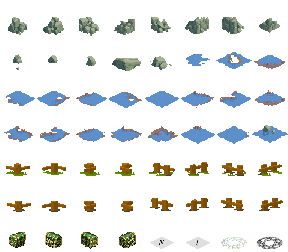
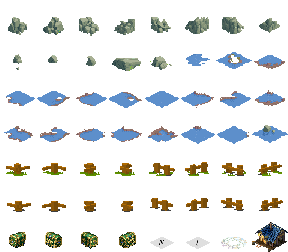
맵툴 하우스 추가
맵툴 하우스 추가

Changed region(s): [[0.875, 0.8889, 1.0, 1.0]]

diff --git a/20170720_1D/mapToolScene.cpp b/20170720_1D/mapToolScene.cpp
@@ -29,14 +29,6 @@ HRESULT mapToolScene::init()
 	_phaseSample.isMove = false;
 	_curTile.x = _curTile.y = 0;
 	
-	for (int i = 0; i < SAMY; i++) for (int j = 0; j < SAMX; j++)
-	{
-		_tileSample[i * SAMX + j].frame.x = j;
-		_tileSample[i * SAMX + j].frame.y = i;
-		SetRect(&_tileSample[i * SAMX + j].rc, _phaseSample.rc.left + j * SAMSIZEX,
-			_phaseSample.rc.top + i * SAMSIZEY, _phaseSample.rc.left + j * SAMSIZEX + SAMSIZEX, _phaseSample.rc.top + i * SAMSIZEY + SAMSIZEY);
-	}
-
 	_sampleTile.frame.x = 0;
 	_sampleTile.frame.y = 0;
 	_sampleTile.rc = RectMakeCenter(_phaseSample.x, _phaseSample.y, 192, 192);
@@ -430,14 +422,47 @@ void mapToolScene::setTile()
 					}
 					break;
 				case SAM_OBJECT:
-					_tile[i].objFrame.x = _curTile.x;
-					_tile[i].objFrame.y = _curTile.y;
-					_tile[i].obj = this->objCreater({ _curTile.x, _curTile.y });
+					if (this->objCreater({ _curTile.x, _curTile.y }) == OBJ_HOUSE)
+					{
+						if (!houseSetCheck(i)) continue;
+						for (int t = 0; t < 4; t++)
+						{
+							for (int k = i; k < i + 4; k++)
+							{
+								if (k + t * TILEX == i + (TILEX + 1) * 3) _tile[k + t * TILEX].obj = OBJ_HOUSERENDER;
+								else _tile[k + t * TILEX].obj = this->objCreater({ _curTile.x, _curTile.y });
+							}
+						}
+					}
+					else
+					{
+						if (_tile[i].obj == OBJ_ERASE)
+						{
+							_tile[i].objFrame.x = _curTile.x;
+							_tile[i].objFrame.y = _curTile.y;
+							_tile[i].obj = this->objCreater({ _curTile.x, _curTile.y });
+						}
+					}
 					break;
 				case SAM_OBJ_ERASER:
-					_tile[i].objFrame.x = _curTile.x;
-					_tile[i].objFrame.y = _curTile.y;
-					_tile[i].obj = OBJ_ERASE;
+					if (_tile[i].obj == OBJ_HOUSERENDER)
+					{
+						for (int t = 0; t < 4; t++)
+						{
+							for (int k = (i - 3) - TILEX * 3; k < (i - 3) - TILEX * 3 + 4; k++)
+							{
+								_tile[k + t * TILEX].objFrame.x = _curTile.x;
+								_tile[k + t * TILEX].objFrame.y = _curTile.y;
+								_tile[k + t * TILEX].obj = OBJ_ERASE;
+							}
+						}
+					}
+					else
+					{
+						_tile[i].objFrame.x = _curTile.x;
+						_tile[i].objFrame.y = _curTile.y;
+						_tile[i].obj = OBJ_ERASE;
+					}
 					break;
 				}
 			}		
@@ -456,6 +481,30 @@ void mapToolScene::setTile()
 		}
 	}
 }
+
+bool mapToolScene::houseSetCheck(int num)
+{
+	for (int i = 0; i < 4; i++)
+	{
+		for (int j = num; j < num + 4; j++)
+		{
+			if (_tile[j + i * TILEX].obj != OBJ_ERASE) return false;
+			if (_tile[j + i * TILEX].ter == TER_VOID) return false;
+			if (num >= TILEX * (TILEY - 1) + 1 && num < TILEX * TILEY) return false;
+			if (num % (TILEX - 1) == 0 && num != 0) return false;
+			if (i < num + 3)
+			{
+				if (_tile[j + i * TILEX].z != _tile[j + i * TILEX].z) return false;
+			}
+			else
+			{
+				if (_tile[j + i * TILEX].z != _tile[num + (i + 1) * TILEX].z && j < num + 3) return false;
+			}
+		}
+	}
+	return true;
+}
+
 void mapToolScene::drawTile()
 {
 	IMAGEMANAGER->findImage(L"IsoBackground")->render(0, 0, false, 1);
@@ -511,13 +560,32 @@ void mapToolScene::drawTile()
 				DIRECT2D->drawLine(DIRECT2D->_defaultBrush, _tile[i].line[1].x, _tile[i].line[1].y, _tile[i].line[2].x, _tile[i].line[2].y, true, 1);
 				DIRECT2D->drawLine(DIRECT2D->_defaultBrush, _tile[i].line[2].x, _tile[i].line[2].y, _tile[i].line[3].x, _tile[i].line[3].y, true, 1);
 				DIRECT2D->drawLine(DIRECT2D->_defaultBrush, _tile[i].line[3].x, _tile[i].line[3].y, _tile[i].line[0].x, _tile[i].line[0].y, true, 1);
+
+				/*int tileObj = 0;
+				if (_tile[i].obj != OBJ_ERASE) tileObj = 1;
+				WCHAR str[128];
+				wsprintf(str, L"%d", tileObj);
+				DIRECT2D->drawTextD2D(DIRECT2D->_defaultBrush, str,
+					_tile[i].line[1].x - CAMERAMANAGER->getX(), 
+					_tile[i].line[1].y - CAMERAMANAGER->getY(),
+					_tile[i].line[2].x - CAMERAMANAGER->getX(),
+					_tile[i].line[2].y - CAMERAMANAGER->getY());*/
 			}
 
 			if (_tile[i].obj != OBJ_ERASE)
 			{
-				IMAGEMANAGER->findImage(L"IsoObject")->frameRender(_tile[i].x - TILESIZEX / 2 - IMAGEMANAGER->findImage(L"IsoObject")->getFrameWidth() + TILESIZEX,
-					_tile[i].y - _tile[i].z - IMAGEMANAGER->findImage(L"IsoObject")->getFrameHeight() - TILESIZEY * (_tile[i].z - 1),
-					_tile[i].objFrame.x, _tile[i].objFrame.y, true, 1.0f);
+				if (_tile[i].obj == OBJ_HOUSERENDER)
+				{
+				//	if(_tile[i].indexX )
+					IMAGEMANAGER->findImage(L"obj_house")->render(_tile[i].x - (TILESIZEX * 4) / 2,
+						_tile[i].y + TILESIZEY - IMAGEMANAGER->findImage(L"obj_house")->getHeight(), true, 1.0f);
+				}
+				else if (_tile[i].obj != OBJ_HOUSE)
+				{
+					IMAGEMANAGER->findImage(L"IsoObject")->frameRender(_tile[i].x - TILESIZEX / 2 - IMAGEMANAGER->findImage(L"IsoObject")->getFrameWidth() + TILESIZEX,
+						_tile[i].y - _tile[i].z - IMAGEMANAGER->findImage(L"IsoObject")->getFrameHeight() - TILESIZEY * (_tile[i].z - 1),
+						_tile[i].objFrame.x, _tile[i].objFrame.y, true, 1.0f);
+				}
 			}
 		}
 	}
@@ -679,5 +747,6 @@ TERRAIN_TYPE mapToolScene::terCreater(POINT tile)
 OBJECT_TYPE mapToolScene::objCreater(POINT tile)
 {
 	if (tile.x == 4 && tile.y == 6) return OBJ_NPC;
+	if (tile.x == 7 && tile.y == 6) return OBJ_HOUSE;
 	return OBJ_ITEM;
 }

diff --git a/20170720_1D/mapToolScene.h b/20170720_1D/mapToolScene.h
@@ -104,6 +104,8 @@ public:
 	void updateButton();
 	void drawButton();
 
+	bool houseSetCheck(int num);
+
 	TERRAIN_TYPE terCreater(POINT tileNum);
 	OBJECT_TYPE objCreater(POINT tileNum);
 };
